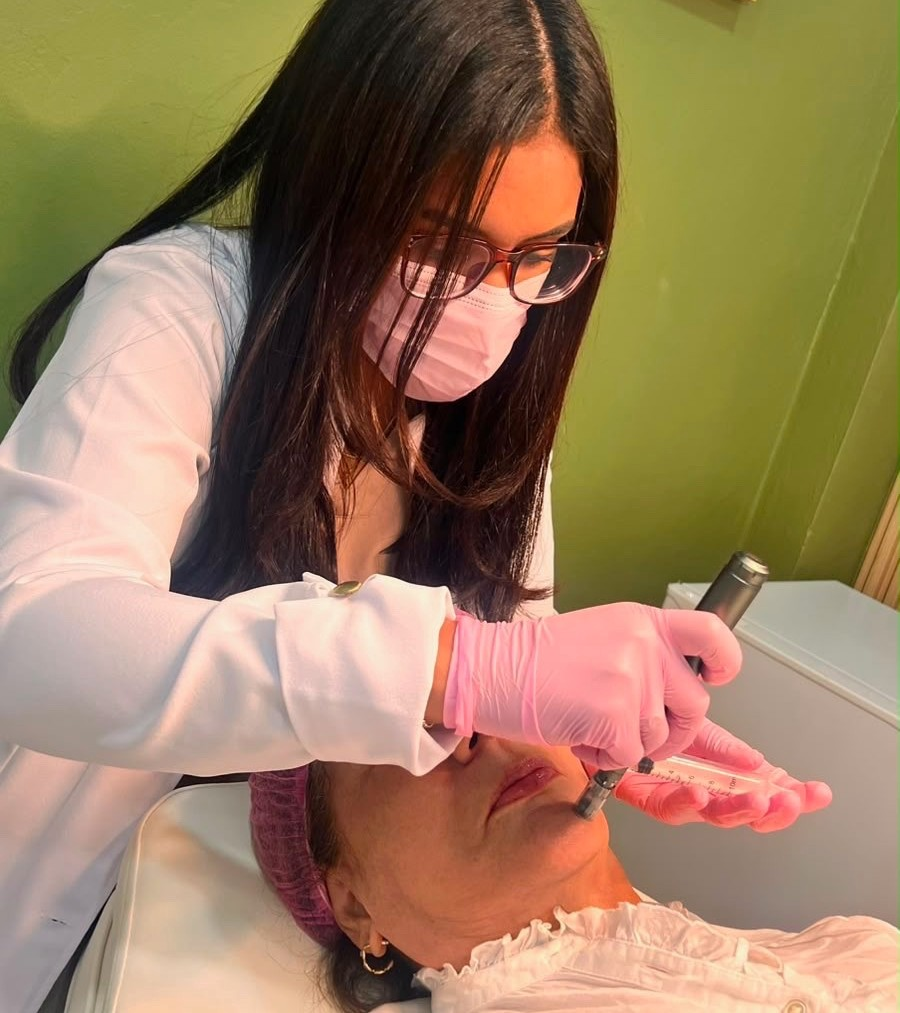
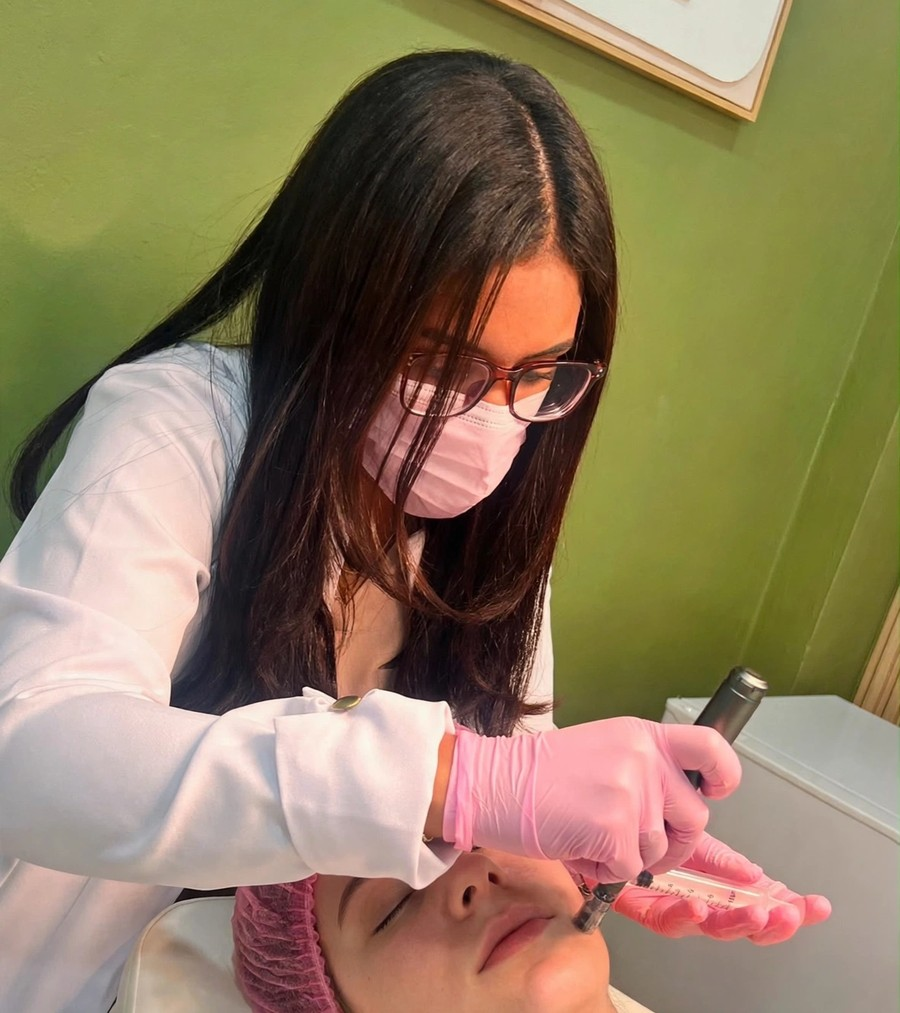
New microneedling patient photo (approved AI swap, framed crops for card/gallery); 'Conoce a tu doctora' topper no longer italic; inclusive 'nuestros pacientes' wording site-wide

diff --git a/src/content/pages/nosotros.html b/src/content/pages/nosotros.html
@@ -39,7 +39,7 @@ permalink: "/nosotros/"
                 <span class="cs-topper">Nuestro centro</span>
                 <h2 class="cs-title">Cuidamos tu piel con trato humano y profesional</h2>
                 <p class="cs-text">
-                    En el corazón de Puerto Plata, nuestro centro estético nació con una idea sencilla: que cada paciente se sienta escuchada, bien informada y en manos seguras. La Dra. Cristabel Hernández dirige personalmente cada evaluación y cada plan de tratamiento.
+                    En el corazón de Puerto Plata, nuestro centro estético nació con una idea sencilla: que cada paciente se sienta escuchado, bien informado y en manos seguras. La Dra. Cristabel Hernández dirige personalmente cada evaluación y cada plan de tratamiento.
                 </p>
                 <p class="cs-text">
                     Creemos en la belleza natural y en los resultados progresivos: nada de cambios exagerados ni promesas imposibles. Trabajamos con productos de calidad, tecnología moderna y protocolos seguros, en un espacio pensado para que te relajes desde que entras.

diff --git a/src/content/pages/testimonios.html b/src/content/pages/testimonios.html
@@ -1,6 +1,6 @@
 ---
 title: "Testimonios | Centro Estético Dra. Cristabel Hernández"
-description: "Lo que dicen nuestras pacientes sobre sus tratamientos de medicina estética facial y corporal en Puerto Plata. Reserva tu cita con la Dra. Cristabel Hernández."
+description: "Lo que dicen nuestros pacientes sobre sus tratamientos de medicina estética facial y corporal en Puerto Plata. Reserva tu cita con la Dra. Cristabel Hernández."
 permalink: "/testimonios/"
 ---
 
@@ -30,7 +30,7 @@ permalink: "/testimonios/"
         <div class="cs-container">
             <div class="cs-content">
                 <span class="cs-topper">Testimonios</span>
-                <h2 class="cs-title">Palabras de nuestras pacientes</h2>
+                <h2 class="cs-title">Palabras de nuestros pacientes</h2>
             </div>
             <ul class="cs-card-group">
                 <li class="cs-item">

diff --git a/src/index.html b/src/index.html
@@ -323,7 +323,7 @@ tags: "sitemap" # content/content.json will make sure that all pages in content/
         <div class="cs-container">
             <div class="cs-content">
                 <span class="cs-topper">Testimonios</span>
-                <h2 class="cs-title">Lo que dicen nuestras pacientes</h2>
+                <h2 class="cs-title">Lo que dicen nuestros pacientes</h2>
             </div>
             <ul class="cs-card-group">
                 <li class="cs-item">

diff --git a/src/assets/sass/local.scss b/src/assets/sass/local.scss
@@ -342,7 +342,7 @@
 
         .cs-topper {
             font-size: calc(25/16 * 1rem);
-            font-style: italic;
+            font-style: normal;
             text-transform: initial;
             letter-spacing: 0;
             margin-bottom: calc(20/16 * 1rem);
